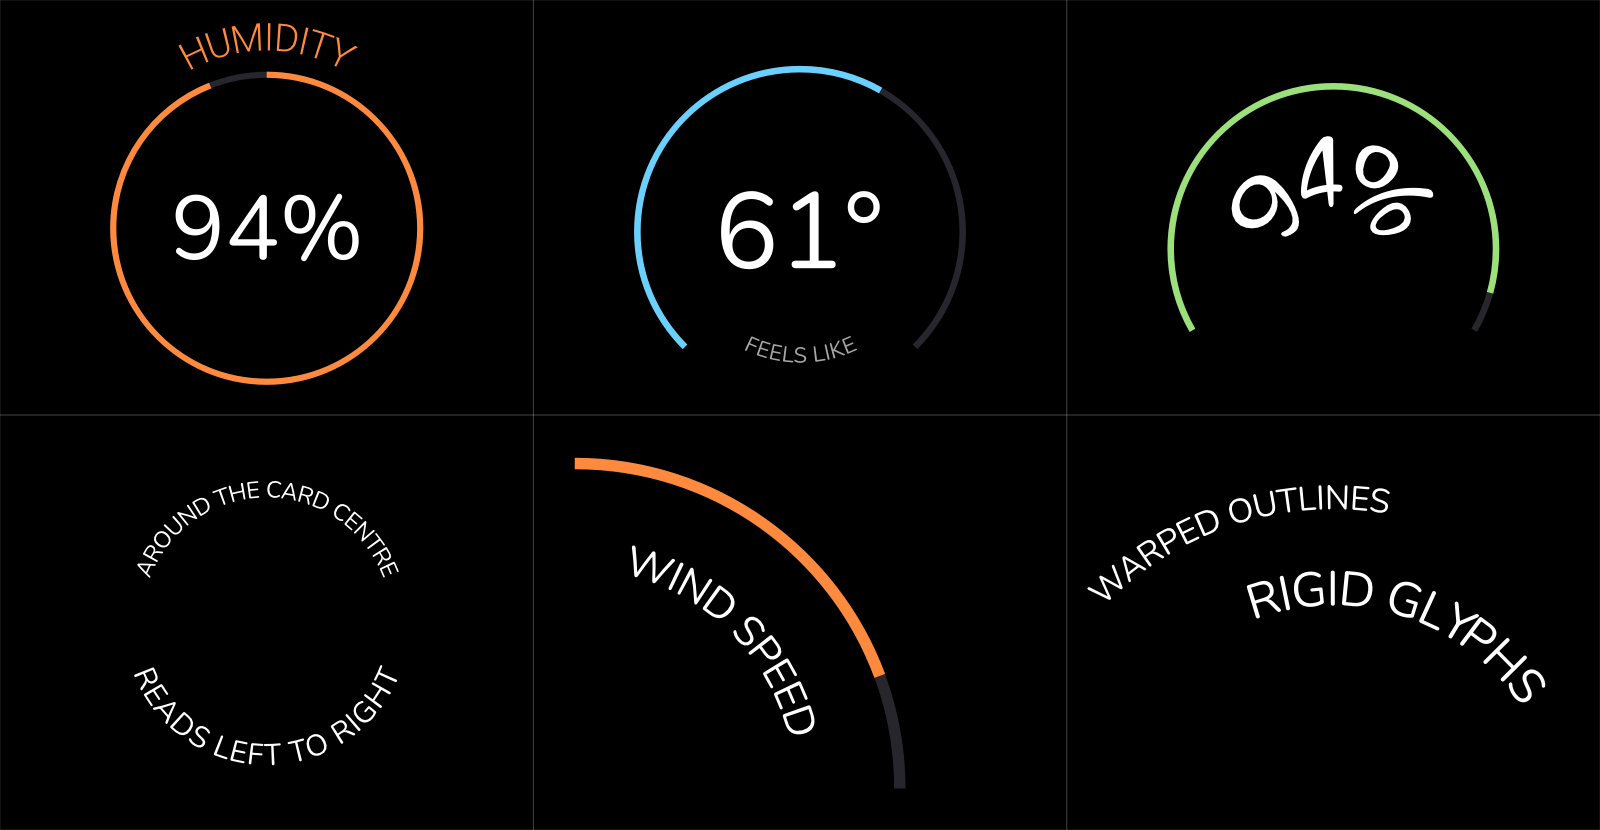
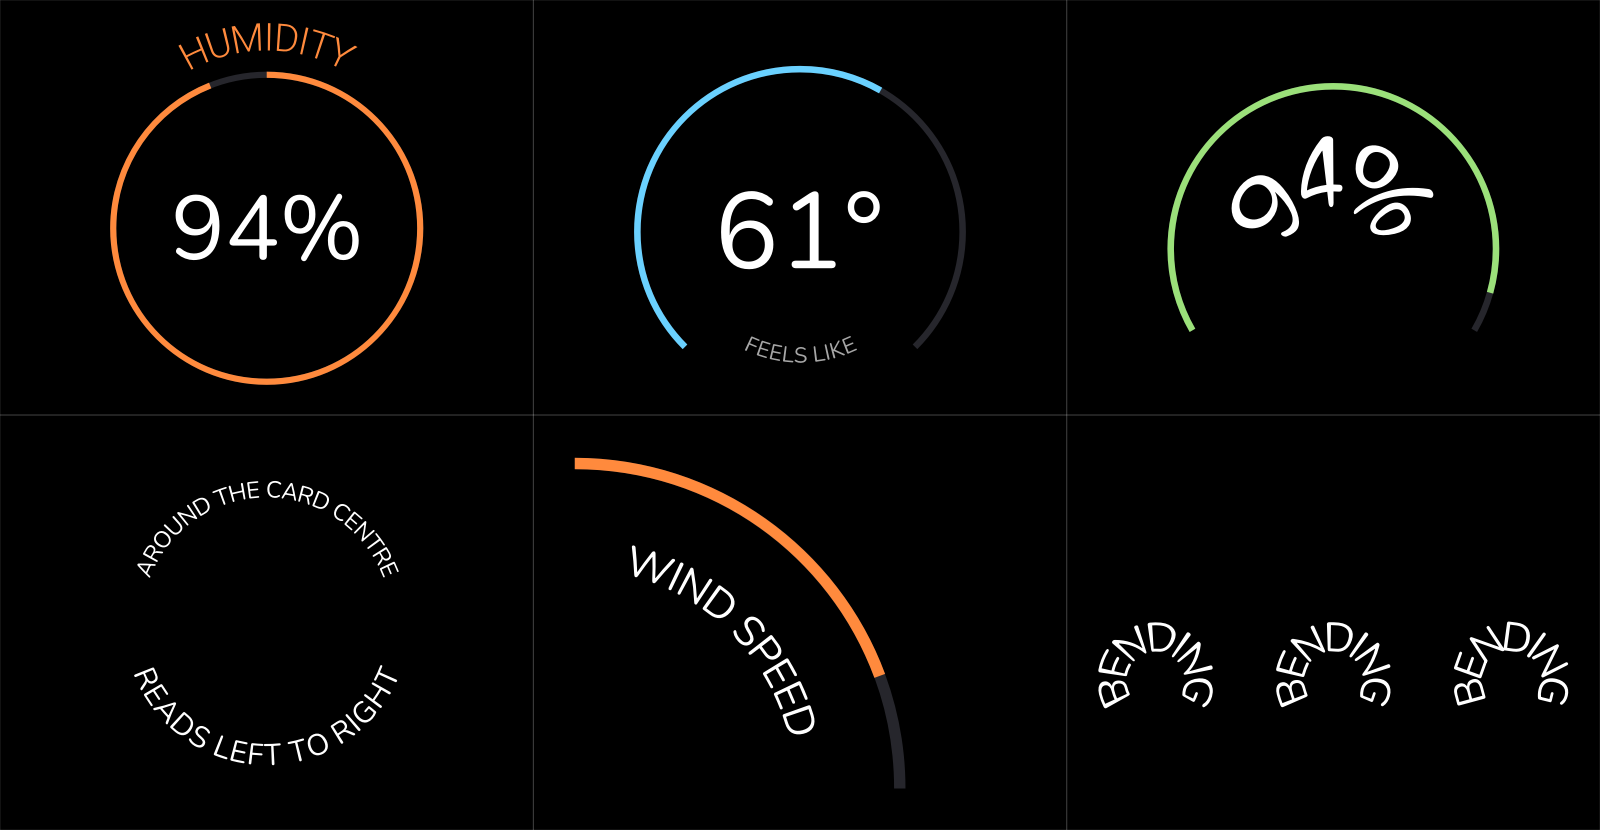
feat(Devtools): bend slider in the warp editor, bend cells in the warped-text preset

diff --git a/src/LevityDash/devtools/_studio_editors.py b/src/LevityDash/devtools/_studio_editors.py
@@ -1555,9 +1555,11 @@ class WarpForm(_Form):
 		                        'Distance from the centre to the middle of the text; % is a share of the dial\'s diameter')
 		self.angle = self.part('angle', 'angle', NumberEdit(lo=-180, hi=180, step=1, decimals=1, suffix='\u00b0'),
 		                       'Where on the circle the text sits, degrees clockwise from the top')
+		self.bend = self.part('bend', 'bend', NumberEdit(lo=0, hi=100, step=1, decimals=0, suffix=' %'),
+		                      '0 % turns each rigid letter to the circle; 100 % bends the letters with it. Around 60 % keeps letters readable')
 		self.mode = QComboBox()
 		self.mode.addItems(['warp', 'glyphs'])
-		self.mode.setToolTip('warp bends the letters; glyphs keeps each letter straight')
+		self.mode.setToolTip('warp is bend 100 %; glyphs is bend 0 %. Use bend for anything between')
 		self.mode.activated.connect(self._emit)
 		self.grid.addWidget(QLabel('mode'), self._r, 0)
 		self.grid.addWidget(self.mode, self._r, 1)
@@ -1569,7 +1571,7 @@ class WarpForm(_Form):
 		self.grid.addWidget(QLabel('flip'), self._r, 0)
 		self.grid.addWidget(self.flip, self._r, 1)
 		self._r += 1
-		self._known |= {'center', 'mode', 'flip'}
+		self._known |= {'center', 'mode', 'flip', 'bend'}
 		self.setValue(True)
 
 	def _showCustom(self, on: bool):
@@ -1599,6 +1601,10 @@ class WarpForm(_Form):
 		self._showCustom(self.centre.currentText() == 'custom')
 		self.radius.setValue(spec.get('radius', '40%'))
 		self.angle.setValue(spec.get('angle', 0))
+		bend = spec.get('bend')
+		if bend is None:
+			bend = 0 if str(spec.get('mode', 'warp')) == 'glyphs' else 100
+		self.bend.setValue(_number(bend))
 
 	def value(self):
 		out = dict(self._extra)
@@ -1612,6 +1618,9 @@ class WarpForm(_Form):
 			out['angle'] = a
 		if self.mode.currentText() != 'warp':
 			out['mode'] = self.mode.currentText()
+		bend = self.bend.value()
+		if bend is not None and not (bend == 0 and out.get('mode') == 'glyphs') and bend != 100:
+			out['bend'] = f'{bend:g}%'
 		if self.flip.currentText() != 'auto':
 			out['flip'] = self.flip.currentText() == 'true'
 		return out or True
